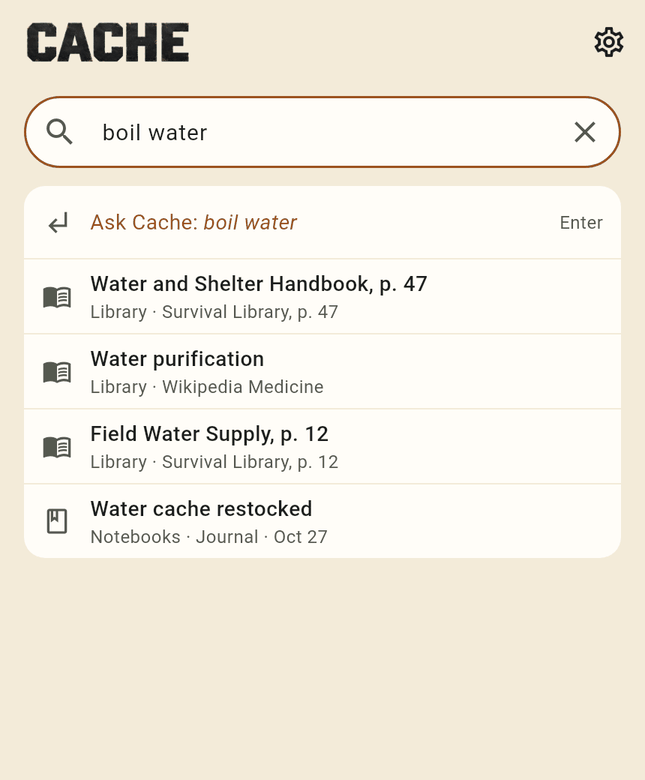
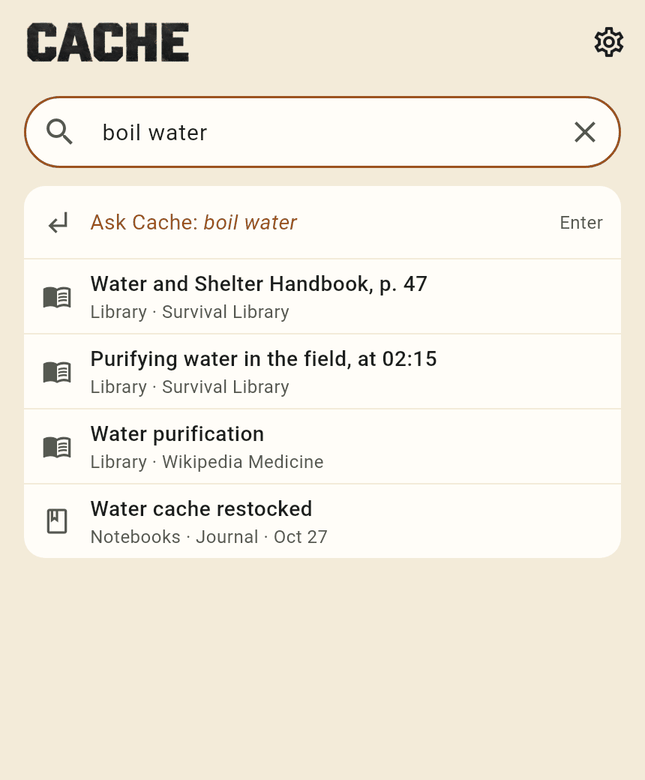
Guide picture: search-pdf-hits re-shot with a PDF passage and words said in a video
Drawn by the Library search itself (Renders 41545320685, make_shots.py); its caption and shots.txt line say so.

Claude-Session: https://claude.ai/code/session_01XZ3UGKZH88VsfKupggk5Lm

Changed region(s): [[0.124, 0.4308, 0.6822, 0.6154], [0.4961, 0.3692, 0.5271, 0.4]]

diff --git a/app/assets/guide/chapters/ch2.md b/app/assets/guide/chapters/ch2.md
@@ -450,7 +450,7 @@ The reader opens a Library item.
 
 Search in a library reaches more than its pages. It finds words inside the PDFs and EPUB books in a ZIM, and in the captions of its videos. Nothing to switch on and nothing to start. It is always on.
 
-![PDF passages in Home search](shot:search-pdf-hits)
+![A PDF passage and words said in a video in Home search](shot:search-pdf-hits)
 
 1. Add a Library item that holds PDFs, EPUBs or videos with captions. See Add to your Library in chapter 1.
 2. Leave Cache open. It makes them searchable in the background, a little at a time, so your device stays cool.

diff --git a/docs/guide/ch2.md b/docs/guide/ch2.md
@@ -450,7 +450,7 @@ The reader opens a Library item.
 
 Search in a library reaches more than its pages. It finds words inside the PDFs and EPUB books in a ZIM, and in the captions of its videos. Nothing to switch on and nothing to start. It is always on.
 
-![PDF passages in Home search](shot:search-pdf-hits)
+![A PDF passage and words said in a video in Home search](shot:search-pdf-hits)
 
 1. Add a Library item that holds PDFs, EPUBs or videos with captions. See Add to your Library in chapter 1.
 2. Leave Cache open. It makes them searchable in the background, a little at a time, so your device stays cool.
